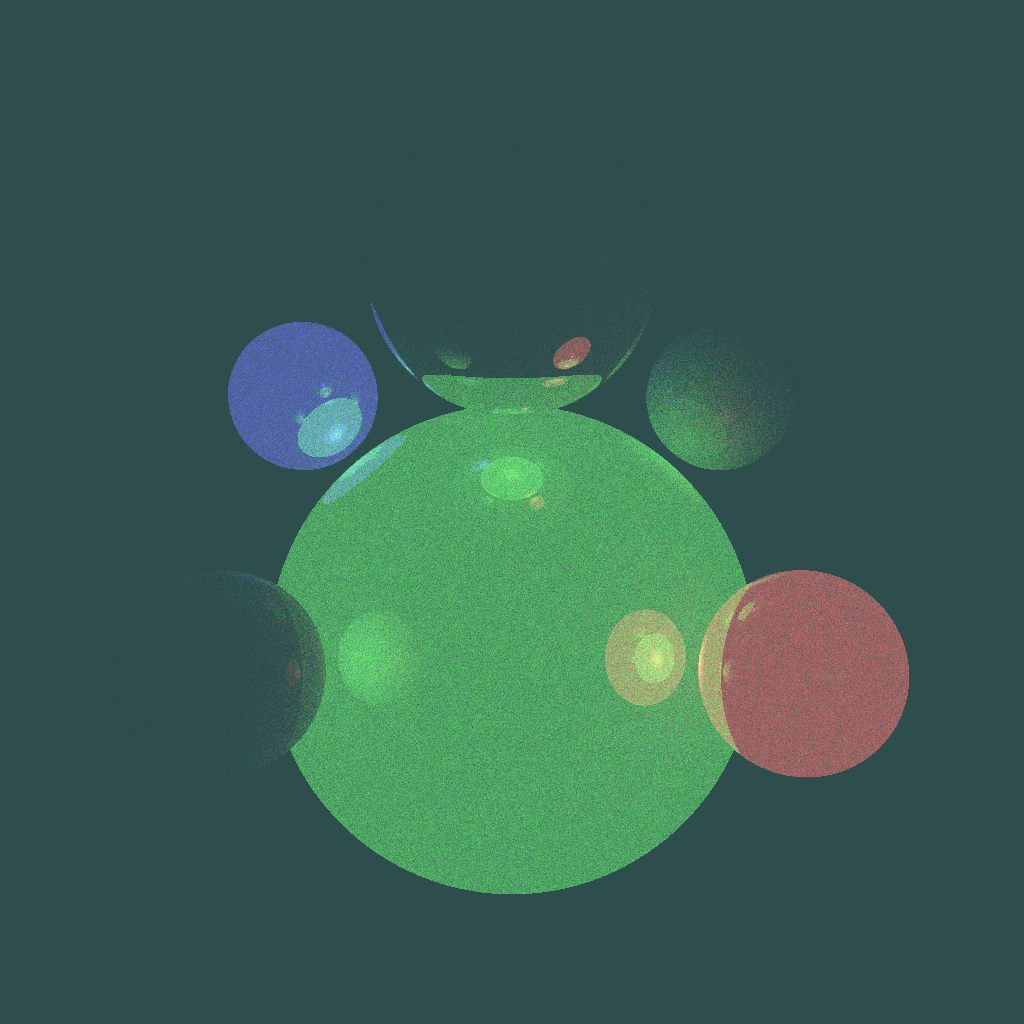
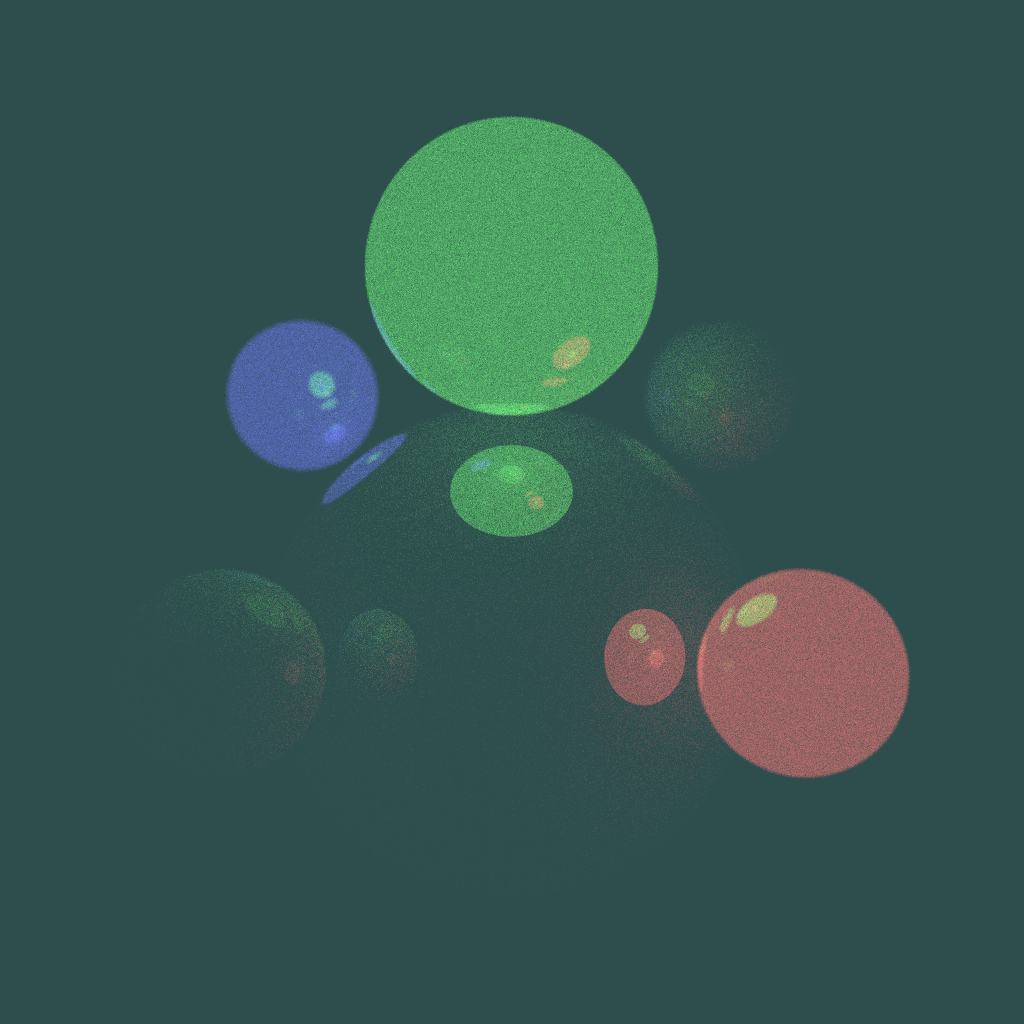
more advanced camera

Changed region(s): [[0.2188, 0.0938, 0.9062, 0.875]]

diff --git a/src/main.rs b/src/main.rs
@@ -13,14 +13,17 @@ use self::palette::{Pixel, LinSrgb, Srgb, named as colors};
 use rayon::prelude::*;
 use std::f64::consts::{FRAC_PI_4, PI};
 use std::fs::File;
+use self::rand::Rng;
+use self::nalg::Vector2;
+
 
 fn main() -> Result<(), Error> {
-    let size = 1024;
+    let size = 256;
 
     let world = World {
         objects: vec![
-            Object::new(0., -2., 0., 3., LinSrgb::new(0.05, 0.3, 0.05), 0.75),
-            Object::new(0., 3., 0., 1.5, LinSrgb::new(0., 0., 0.), 0.75),
+            Object::new(0., -2., 0., 3., LinSrgb::new(0., 0., 0.), 0.75),
+            Object::new(0., 3., 0., 1.5, LinSrgb::new(0.05, 0.3, 0.05), 0.75),
             Object::new(4., 0., 0., 1., LinSrgb::new(0.3, 0.05, 0.05), 0.9),
             Object::new(-4., 0., 0., 1., LinSrgb::new(0.05, 0.05, 0.3), 0.9),
             Object::new(0., 0., 4., 1., LinSrgb::new(0., 0., 0.), 0.1),
@@ -50,17 +53,26 @@ fn main() -> Result<(), Error> {
             0.1,
             100.,
         );
+        let cam = DefocusCamera::new(cam, 14.);
 
         {
             let mut raster = RasterLayer::new(img.as_mut());
+            let px = raster.pixel_size();
             for (p, v) in raster.pixels_mut() {
                 let mut val = LinSrgb::new(0., 0., 0.);
-                let count = 8;
+                let count = 16;
                 for _ in 0..count {
-                    let ray = match cam.look(p) {
+                    let offset = Vector2::new(rng.gen_range(0., px), rng.gen_range(0., px));
+
+                    let defoc_r = 0.2 * rng.gen_range(0., 1.).sqrt();
+                    let defoc_theta = rng.gen_range(0., 2. * PI);
+                    let defoc = Vector2::new(defoc_r * defoc_theta.sin(), defoc_r * defoc_theta.cos());
+
+                    let ray = match cam.look((p + offset, defoc)) {
                         Some(r) => r,
                         None => continue,
                     };
+
                     let path = world.sample(ray, MulBackPath::new(), 6, &mut rng);
                     val = val + path.lum();
                 }

diff --git a/core/src/shade.rs b/core/src/shade.rs
@@ -37,7 +37,7 @@ pub fn reflect(input: Unit<Vector3<f64>>, half: Unit<Vector3<f64>>) -> Unit<Vect
     Unit::new_unchecked(input.unwrap() - 2. * (input.dot(half.as_ref())) * half.as_ref())
 }
 
-pub fn cosine_weighted_hemi<R: Rng>(rng: &mut R) -> (f64, Unit<Vector3<f64>>) {
+pub fn cosine_weighted_hemi<R: Rng>(rng: &mut R) -> Unit<Vector3<f64>> {
     use std::f64::consts::PI;
 
     let u: f64 = rng.gen_range(0., 1.);
@@ -47,14 +47,13 @@ pub fn cosine_weighted_hemi<R: Rng>(rng: &mut R) -> (f64, Unit<Vector3<f64>>) {
     let x = r * phi.cos();
     let y = r * phi.sin();
 
-    (r, Unit::new_unchecked(Vector3::new(x, y, (1. - u).sqrt())))
+    Unit::new_unchecked(Vector3::new(x, y, (1. - u).sqrt()))
 }
 
 impl World {
     pub fn sample<R: Rng, P: BackPath>(&self, ray: Ray, mut bpath: P, limit: usize, rng: &mut R) -> P::Forward
         where P::Forward: ForPath<Color=LinSrgb, Filter=LinSrgb>
     {
-        use std::f32::consts::PI;
 
         let hit = self.objects.iter()
             .map(|o| o.geo.cast(ray, o))
@@ -92,12 +91,11 @@ impl World {
                     } else {
                         bpath.decide_not(refl);
 
-                        let (cos_theta, cwh) = cosine_weighted_hemi(rng);
-                        let cos_theta_over_pi = cos_theta as f32 / PI;
-                        bpath.decide(cos_theta_over_pi);
+                        let cwh = cosine_weighted_hemi(rng);
+                        /* bpath.decide(cos_theta_over_pi); CANCELS */
 
                         x = Unit::new_unchecked(i.surface() * cwh.unwrap());
-                        filter = not_refl * cos_theta_over_pi;
+                        filter = not_refl /* * cos_theta_over_pi */;
                     }
 
                     self.sample(

diff --git a/core/src/lib.rs b/core/src/lib.rs
@@ -2,11 +2,10 @@ pub extern crate nalgebra as nalg;
 pub extern crate ncollide as ncol;
 pub extern crate imgref;
 pub extern crate palette;
-extern crate num_traits;
 pub extern crate rand;
+extern crate num_traits;
 
-
-pub use nalg::{Real, zero, one, Point2, Point3, Unit, Vector3, Matrix3};
+pub use nalg::{Real, zero, one, Point2, Point3, Unit, Vector3, Matrix3, Vector2};
 pub use imgref::ImgVec;
 pub use nalg::geometry::{Isometry3, Perspective3};
 use ncol::shape::Ball;
@@ -122,6 +121,30 @@ impl Camera<Point2<f64>> for PerspectiveCamera {
         let distant = self.position * far;
         let dir = Unit::new_normalize(distant - origin);
         Some(Ray::new(origin, dir))
+    }
+}
+
+pub struct DefocusCamera {
+    pub base: PerspectiveCamera,
+    pub focal_distance: f64,
+}
+
+impl DefocusCamera {
+    pub fn new(base: PerspectiveCamera, focal_distance: f64) -> DefocusCamera {
+        DefocusCamera { base, focal_distance }
+    }
+}
+
+impl Camera<(Point2<f64>, Vector2<f64>)> for DefocusCamera {
+    fn look(&self, (from, offset): (Point2<f64>, Vector2<f64>)) -> Option<Ray> {
+        let base = match self.base.look(from) {
+            Some(b) => b,
+            None => return None,
+        };
+        let offset = self.base.position * Vector3::new(offset[0], offset[1], 0.);
+        let origin = base.origin + offset;
+        let dir = base.dir.unwrap() - offset / self.focal_distance;
+        Some(Ray::new(origin, Unit::new_normalize(dir)))
     }
 }
 
